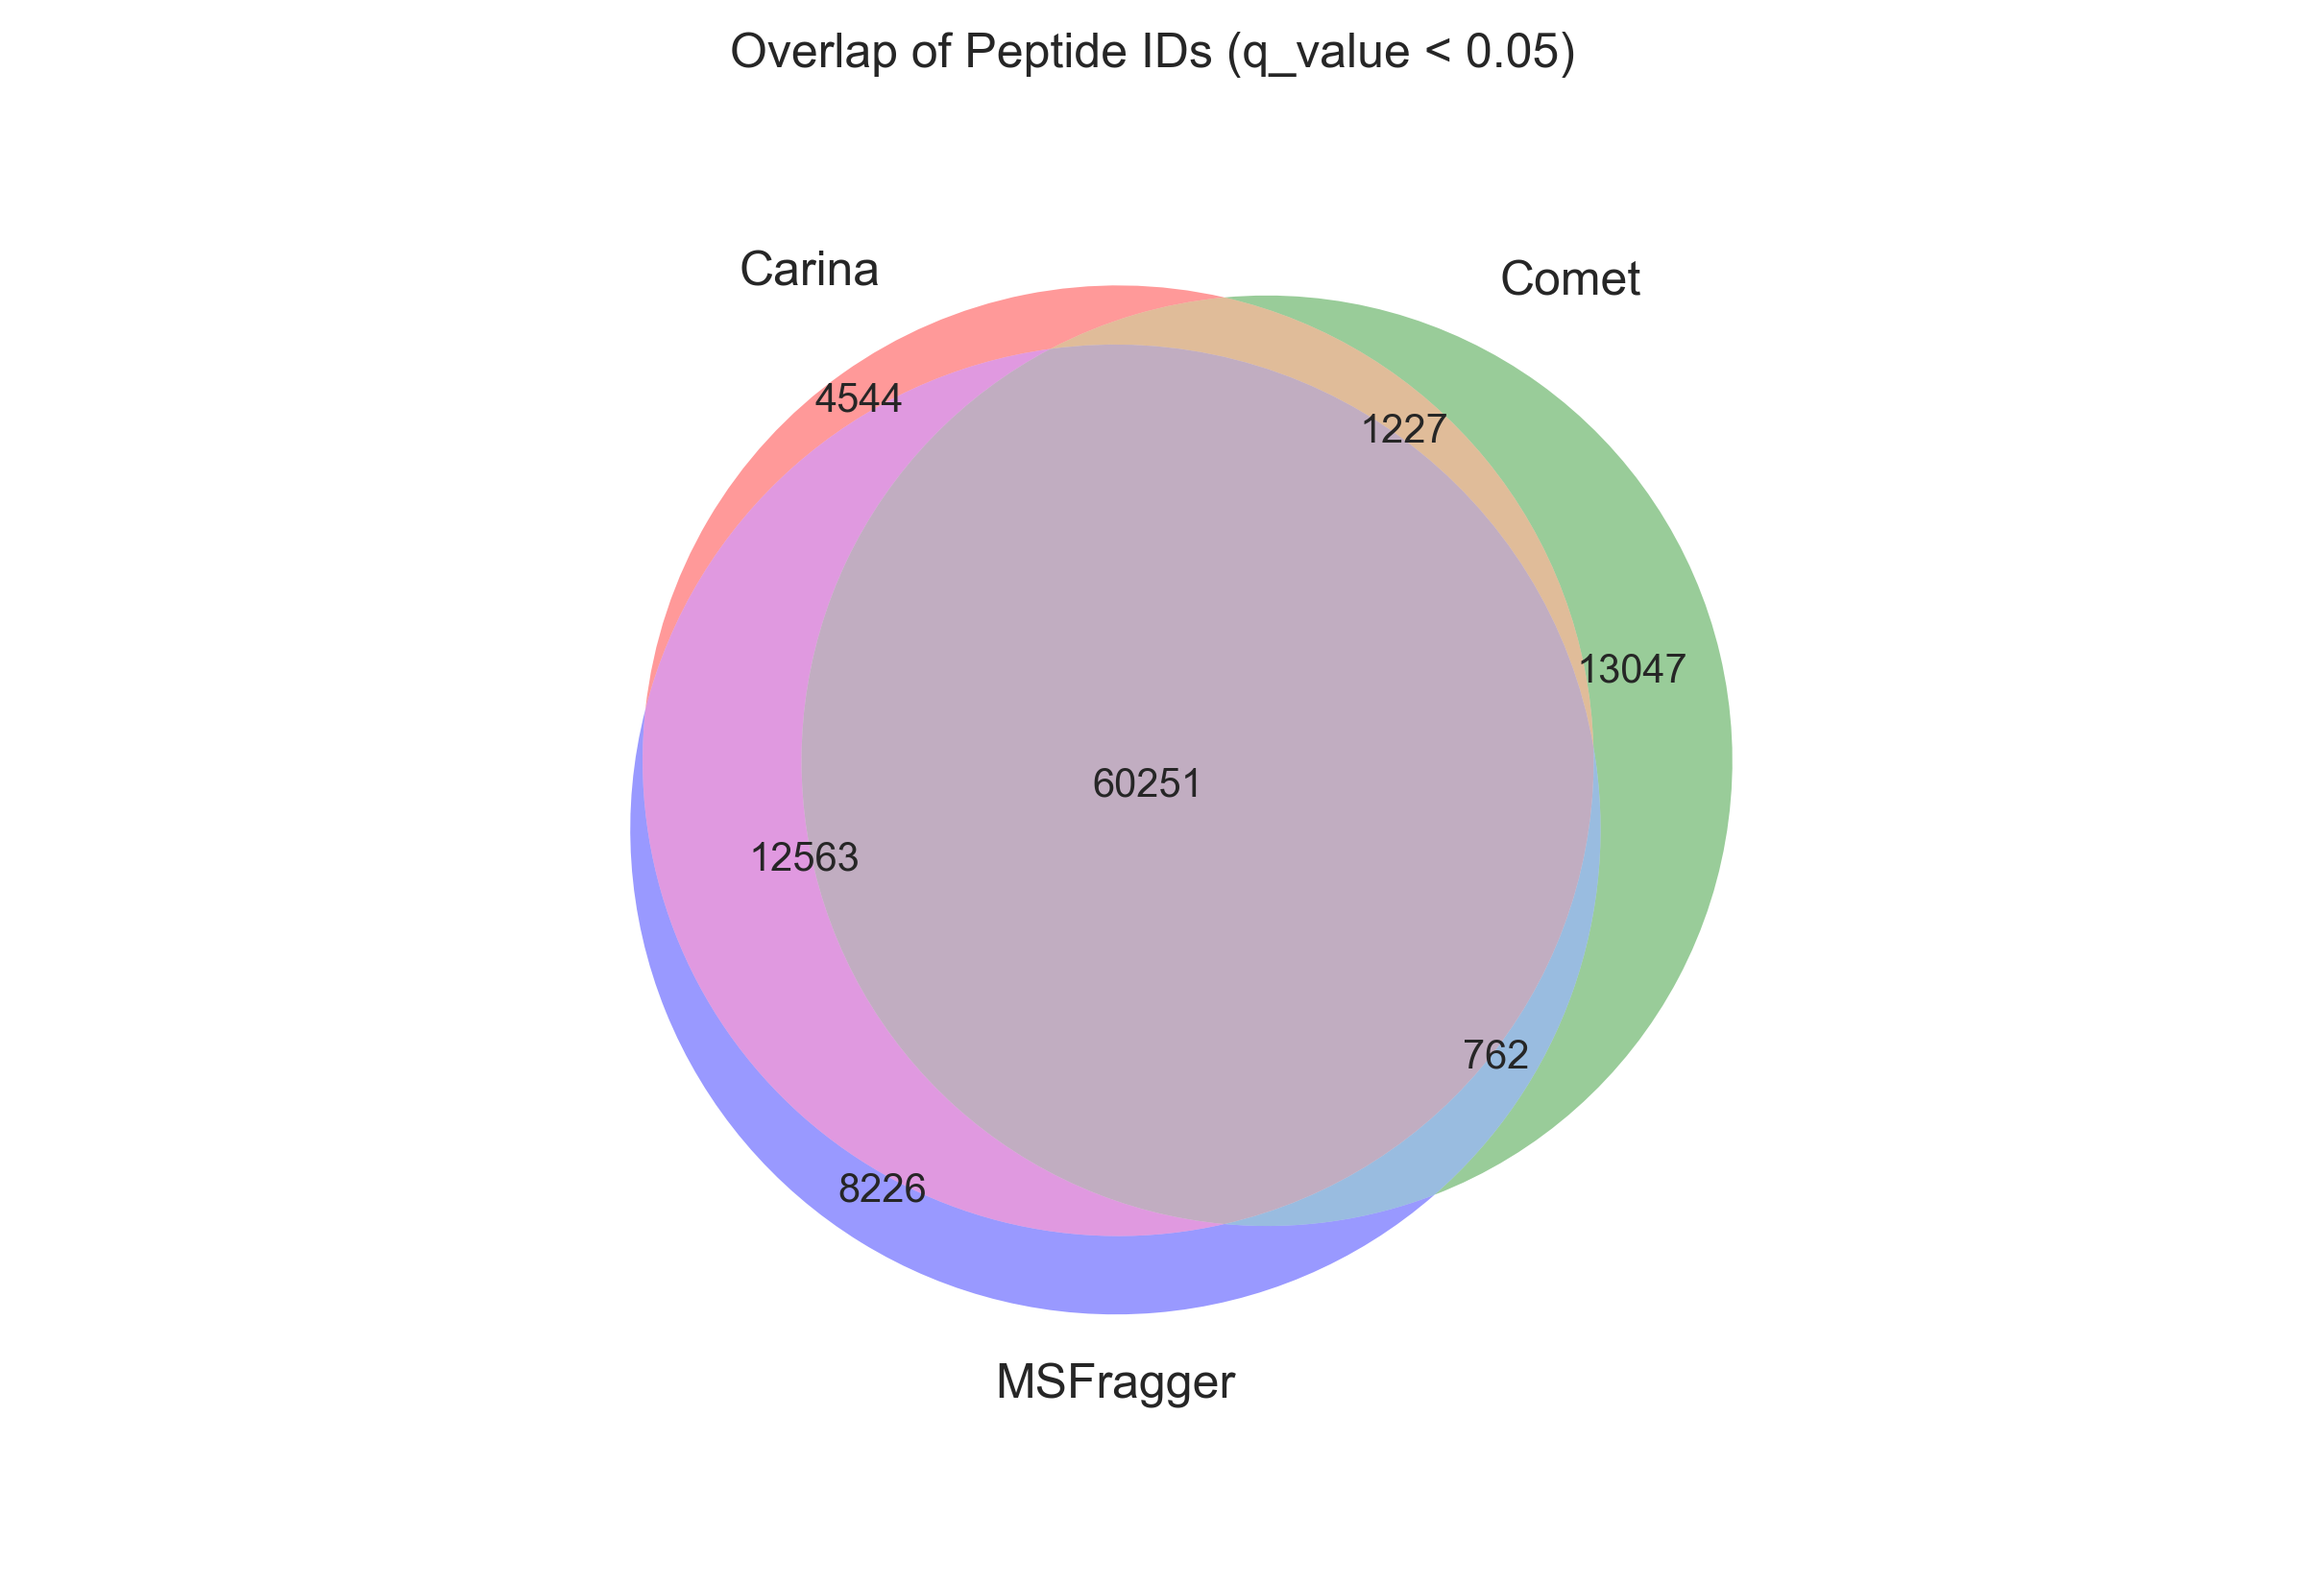
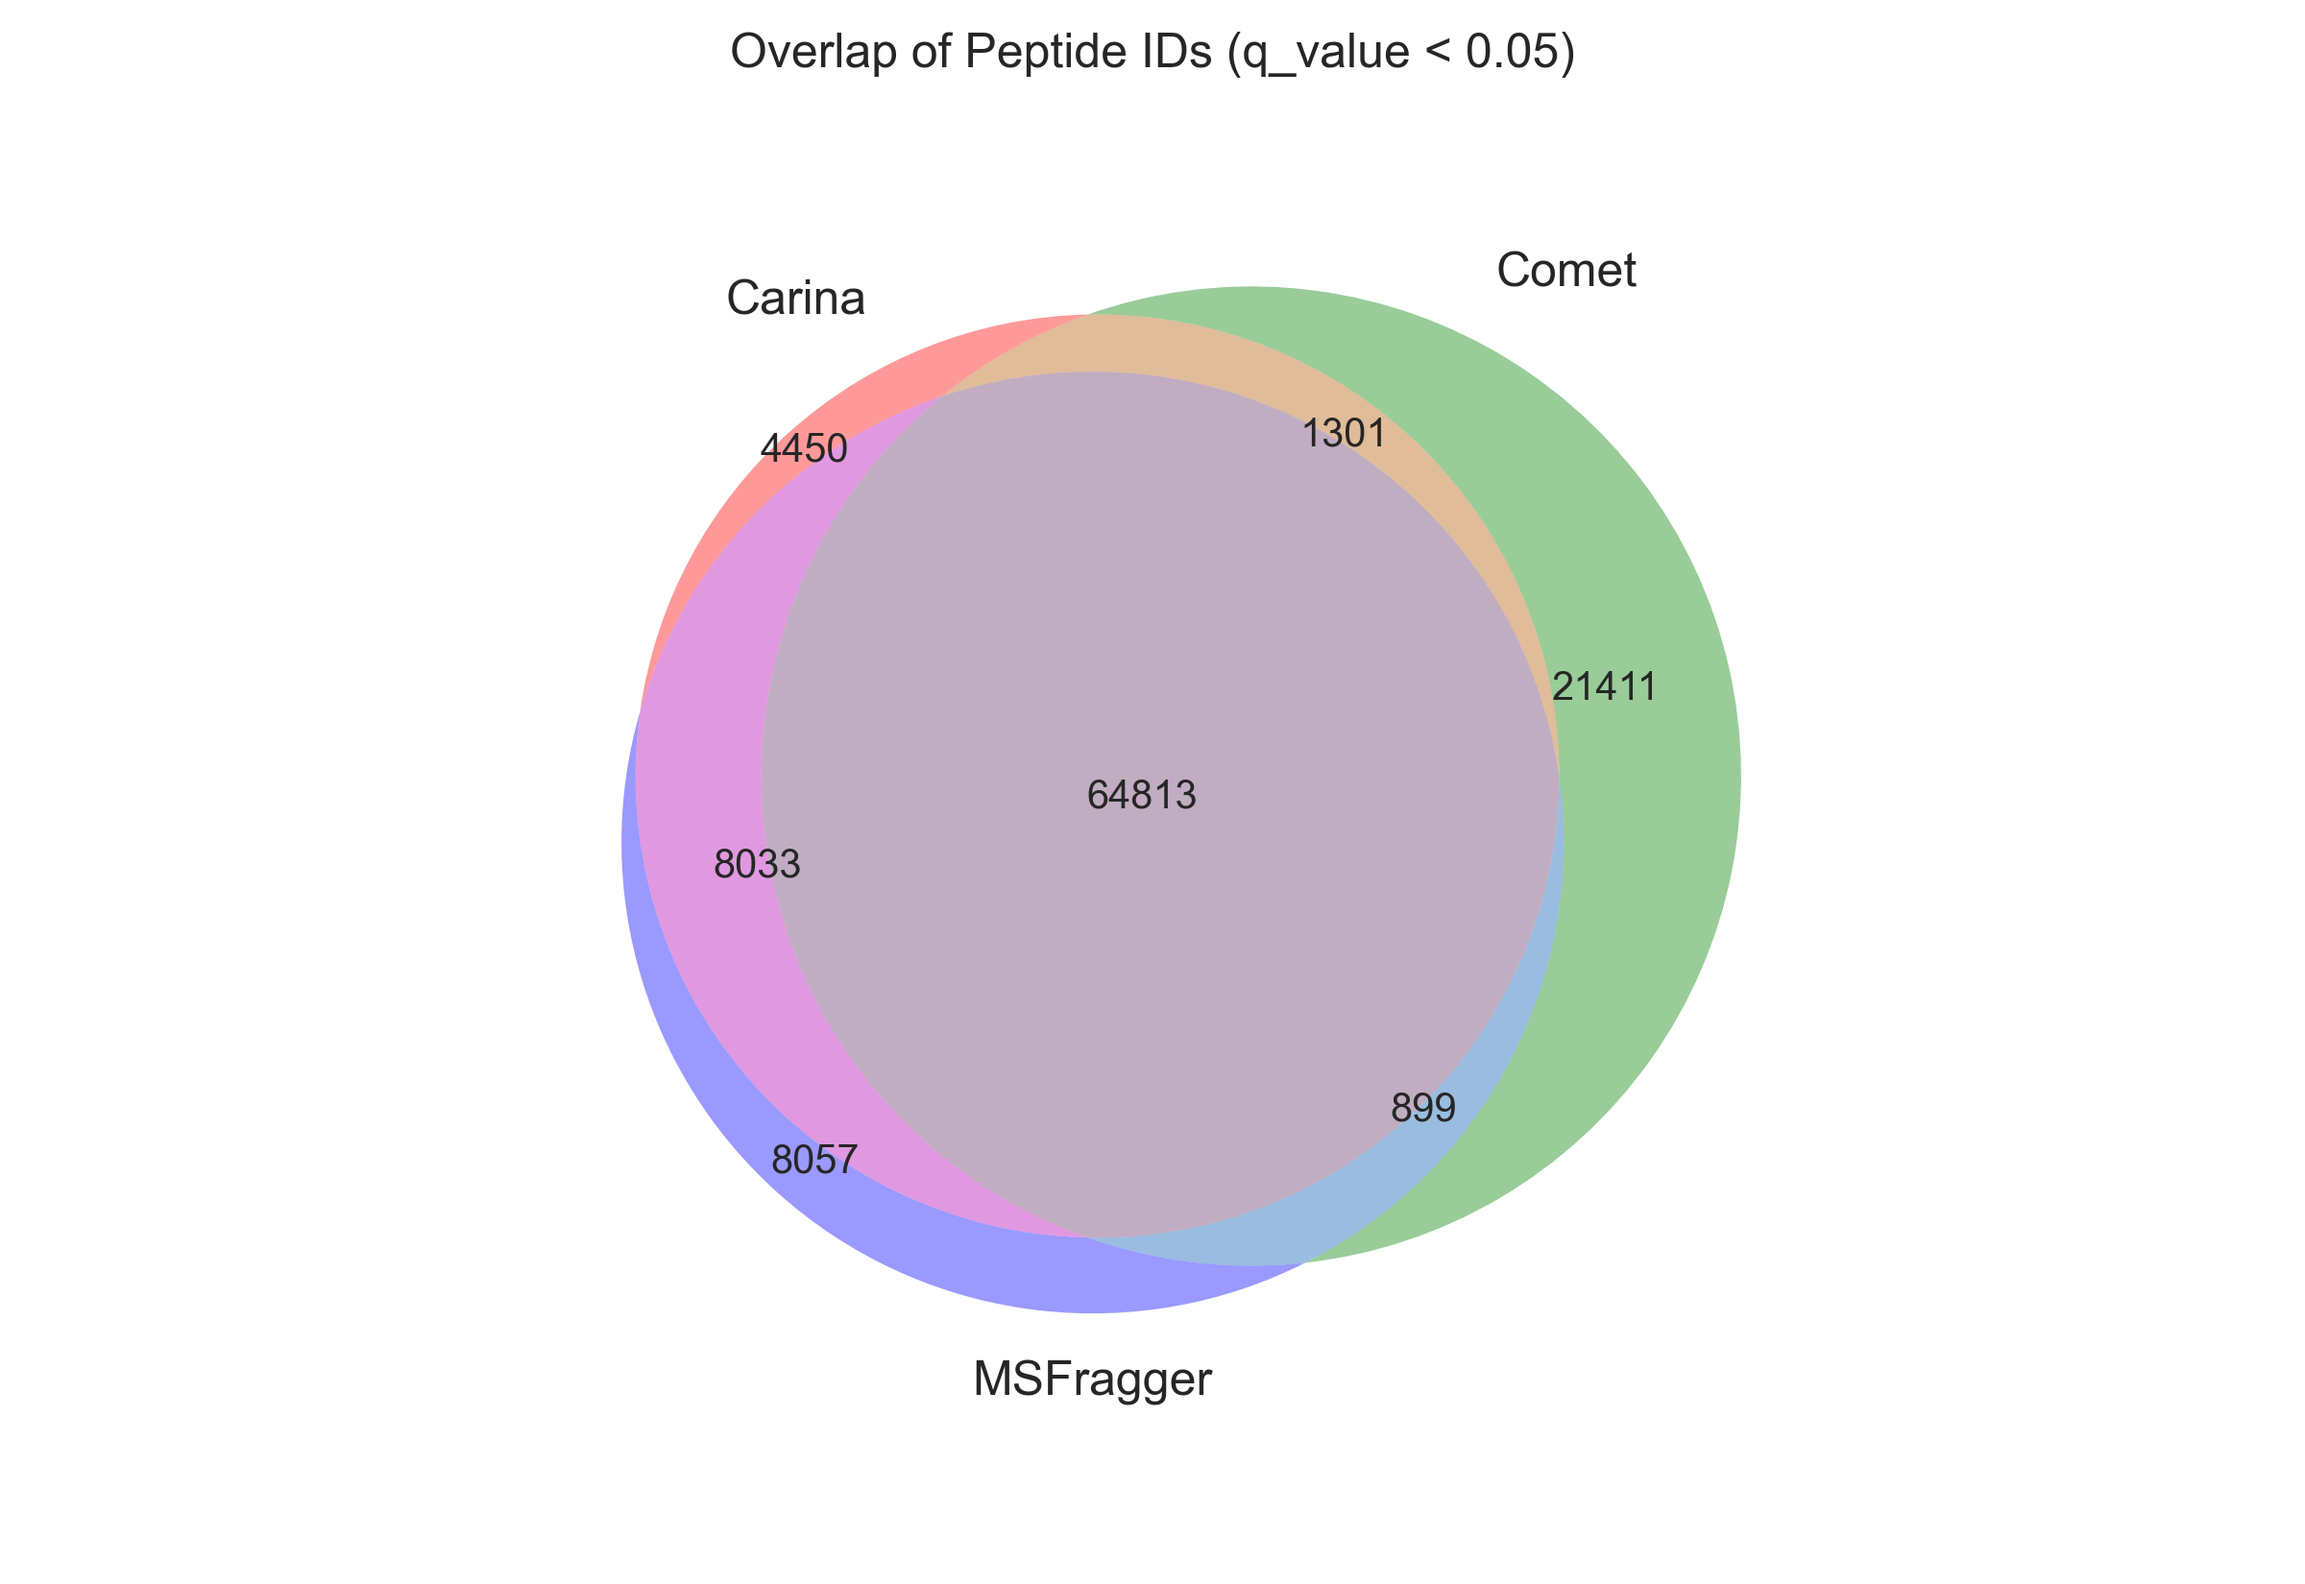
Refactor charge state searching
- Add SpectrumProcessor struct
- Re-do benchmarks

diff --git a/src/bin/carina.rs b/src/bin/carina.rs
@@ -2,7 +2,7 @@ use carina::database::{IndexedDatabase, PeptideIx, Theoretical};
 use carina::ion_series::Kind;
 use carina::mass::{Tolerance, PROTON};
 use carina::peptide::TargetDecoy;
-use carina::spectrum::{read_spectrum, ProcessedSpectrum};
+use carina::spectrum::{read_spectrum, ProcessedSpectrum, SpectrumProcessor};
 use clap::{Arg, Command};
 use log::info;
 use rayon::prelude::*;
@@ -96,26 +96,26 @@ impl<'db> Scorer<'db> {
             .query(query, self.search.precursor_tol, self.search.fragment_tol);
 
         for (idx, fragment_mz) in query.mz.iter().enumerate() {
-            for charge in 1..=query.charge.min(self.search.max_fragment_charge) {
-                let fragment_mz = (fragment_mz * charge as f32) - (charge as f32 * PROTON);
-                for frag in candidates.page_search(fragment_mz) {
-                    let mut sc = scores
-                        .entry(frag.peptide_index)
-                        .or_insert_with(|| Score::new(frag));
+            // for charge in 1..=query.charge.min(self.search.max_fragment_charge) {
+            // let fragment_mz = (fragment_mz * charge as f32) - (charge as f32 * PROTON);
+            for frag in candidates.page_search(*fragment_mz) {
+                let mut sc = scores
+                    .entry(frag.peptide_index)
+                    .or_insert_with(|| Score::new(frag));
 
-                    let intensity = query.int[idx];
-                    match frag.kind {
-                        Kind::B => {
-                            sc.matched_b += 1;
-                            sc.summed_b += intensity
-                        }
-                        Kind::Y => {
-                            sc.matched_y += 1;
-                            sc.summed_y += intensity
-                        }
+                let intensity = query.int[idx];
+                match frag.kind {
+                    Kind::B => {
+                        sc.matched_b += 1;
+                        sc.summed_b += intensity
+                    }
+                    Kind::Y => {
+                        sc.matched_y += 1;
+                        sc.summed_y += intensity
                     }
                 }
             }
+            // }
         }
 
         let mut scores = scores
@@ -193,6 +193,7 @@ pub struct Search {
     precursor_tol: Tolerance,
     fragment_tol: Tolerance,
     max_fragment_charge: u8,
+    take_top_n: usize,
     report_psms: usize,
     ms2_paths: Vec<String>,
     pin_paths: Vec<String>,
@@ -204,7 +205,8 @@ struct Input {
     database: carina::database::Builder,
     precursor_tol: Tolerance,
     fragment_tol: Tolerance,
-    report_psms: usize,
+    report_psms: Option<usize>,
+    take_top_n: Option<usize>,
     max_fragment_charge: Option<u8>,
     ms2_paths: Vec<String>,
 }
@@ -218,7 +220,8 @@ impl Search {
             database,
             precursor_tol: request.precursor_tol,
             fragment_tol: request.fragment_tol,
-            report_psms: request.report_psms,
+            report_psms: request.report_psms.unwrap_or(1),
+            take_top_n: request.take_top_n.unwrap_or(100),
             max_fragment_charge: request.max_fragment_charge.unwrap_or(3),
             pin_paths: Vec::new(),
             ms2_paths: request.ms2_paths,
@@ -251,12 +254,17 @@ fn main() -> Result<(), Box<dyn std::error::Error>> {
     );
 
     let scorer = Scorer::new(&db, &search);
+    let sp = SpectrumProcessor::new(
+        search.take_top_n,
+        search.max_fragment_charge,
+        search.database.fragment_max_mz,
+    );
 
     let mut pin_paths = Vec::with_capacity(search.ms2_paths.len());
     for ms2_path in &search.ms2_paths {
         let spectra = read_spectrum(ms2_path)?
             .into_iter()
-            .map(ProcessedSpectrum::from)
+            .map(|spectra| sp.process(spectra))
             .collect::<Vec<_>>();
 
         let start = Instant::now();

diff --git a/src/spectrum.rs b/src/spectrum.rs
@@ -1,5 +1,13 @@
 use std::collections::BTreeMap;
 
+use crate::mass::PROTON;
+
+pub struct SpectrumProcessor {
+    take_top_n: usize,
+    max_fragment_charge: u8,
+    max_fragment_mz: f32,
+}
+
 #[derive(Clone, Default, Debug)]
 pub struct ProcessedSpectrum {
     pub scan: u32,
@@ -10,15 +18,30 @@ pub struct ProcessedSpectrum {
     pub int: Vec<f32>,
 }
 
-impl From<Spectrum> for ProcessedSpectrum {
-    fn from(s: Spectrum) -> Self {
-        let (mz, int): (Vec<f32>, Vec<f32>) = s
-            .peaks
-            .iter()
-            .rev()
-            .take(100)
-            .map(|(Intensity(int), mz)| (mz, int.sqrt()))
-            .unzip();
+impl SpectrumProcessor {
+    pub fn new(take_top_n: usize, max_fragment_charge: u8, max_fragment_mz: f32) -> Self {
+        Self {
+            take_top_n,
+            max_fragment_charge,
+            max_fragment_mz,
+        }
+    }
+
+    pub fn process(&self, s: Spectrum) -> ProcessedSpectrum {
+        let charge = self.max_fragment_charge.min(s.charge);
+        let mut mz = Vec::with_capacity(charge as usize * self.take_top_n);
+        let mut int = Vec::with_capacity(charge as usize * self.take_top_n);
+        for (Intensity(fragment_int), fragment_mz) in s.peaks.iter().rev().take(self.take_top_n) {
+            for charge in 1..=charge {
+                let fragment_mz = (fragment_mz * charge as f32) - (charge as f32 * PROTON);
+                if fragment_mz < self.max_fragment_mz {
+                    mz.push(fragment_mz);
+                    int.push(fragment_int.sqrt());
+                }
+            }
+        }
+
+        // dbg!(mz.len());
 
         ProcessedSpectrum {
             scan: s.scan,

diff --git a/src/database.rs b/src/database.rs
@@ -73,8 +73,8 @@ impl Builder {
 #[derive(Serialize, Clone, Debug)]
 pub struct Parameters {
     bucket_size: usize,
-    fragment_min_mz: f32,
-    fragment_max_mz: f32,
+    pub fragment_min_mz: f32,
+    pub fragment_max_mz: f32,
     peptide_min_len: usize,
     peptide_max_len: usize,
     decoy: bool,

diff --git a/README.md b/README.md
@@ -1,83 +1,105 @@
-# Proteomics Database in a Weekend!
+# Proteomics Search Engine in a Weekend!
 <p align="center">
 <img src="https://upload.wikimedia.org/wikipedia/commons/7/70/Carina_Nebula_by_Harel_Boren_%28151851961%2C_modified%29.jpg" width="450px" />
 </p>
 
-I wanted to see how far I could take a proteomics search engine in ~1000 lines of code, and spending only one weekend on it. 
+I wanted to see how far I could take a proteomics search engine in ~1000 lines of code, and spending a little more than a weekend on it. 
 
-I was inspired by the elegant data structure discussed in the [MSFragger paper](https://www.ncbi.nlm.nih.gov/pmc/articles/PMC5409104/), and decided to implement a version of it in Rust
+I was inspired by the elegant data structure discussed in the [MSFragger paper](https://www.ncbi.nlm.nih.gov/pmc/articles/PMC5409104/), and decided to implement a version of it in Rust - with great results.
+
+Carina has excellent performance characteristics (>2x faster and >2x less memory usage than MSFragger), but does not sacrifice code quality or size to do so!
  
-### Features
+## Features
 
 - Search by fragment, filter by precursor: memory layout using sorted tables for blazing fast performance (lots of binary searching!)
+- Effortlessly cross-platform
+- Configuration by JSON files
 - Internal support for static/variable mods
 - X!Tandem hyperscore function
-- Interal q-value/FDR calculation using a target-decoy competition approach
-- No unsafe
-- Percolar output
+- Internal q-value/FDR calculation using a target-decoy competition approach
+- Unsafe free
+- Percolator/mokapot compatible output
+- 
 
-### Limitations
+## Limitations
 
 - Only uses MS2 files
 - Only percolator PIN output
-- Lots of hardcoded parameters (however, you can supply static mods/missed cleavages, etc)
 - Only outputs 1 protein ID even if the peptide is shared by multiple proteins :)
 - Probably has some calculation errors :)
 
-## Performance
+# Usage 
 
-### **High res Human TMT search**
+Carina takes a single command line argument: a path to a JSON-encoded parameter file (see below). A new file (`results.json`) will be created that details input/output paths and all search parameters used for the search
 
-Paper: [Benchmarking the Orbitrap Tribrid Eclipse for Next Generation
-Multiplexed Proteomics](https://pubs.acs.org/doi/10.1021/acs.analchem.9b05685?goto=supporting-info)
+Example usage: `carina tmt.json`
 
-Data: [PXD016766](http://proteomecentral.proteomexchange.org/cgi/GetDataset?ID=PXD016766)
+# Performance
 
-Search settings: 50ppm precursor, 10ppm fragment
+To benchmark search performance versus MSFragger (closed source) and Comet (open source), I downloaded data from the paper [Benchmarking the Orbitrap Tribrid Eclipse for Next Generation
+Multiplexed Proteomics](https://pubs.acs.org/doi/10.1021/acs.analchem.9b05685?goto=supporting-info).
 
-- 12 MS2 files extracted using MSConvert (HRMS2 files)
-- Latest Human proteome FASTA database
-- Internal decoy generation
-- Fragment bucket size: 8196
-- N-term TMT modification
-- Static mod, TMT on Lys 
-- Static mod, IA on Cys
+Data repository: [PXD016766](http://proteomecentral.proteomexchange.org/cgi/GetDataset?ID=PXD016766)
 
-
-***Carina* has good PSM identity overlap**
+***Carina* has good peptide identity overlap**
 
 <img src="figures/TMT_IDs.png" width="600">
 
-**And excellent performance** (it could do a bit better at PSM ID though)
-
-- Active scanning: ~36,500 scans/s
-- Amortized scanning: ~5250 scans/s (most time used on fragment indexing, IO)
+**And excellent performance relative to other search engines**
 
 <img src="figures/TMT_Panel.png" width="800">
 
+Performance results: (Intel i7-12700KF + 32GB ram)
 
----
-
-### **Low res Yeast search**
-
-Raw data extracted using RawConverter to MS2 format
-Test data from [PXD001928](http://proteomecentral.proteomexchange.org/cgi/GetDataset?ID=PXD001928) (Yeast_XP_Tricine_trypsin_147.ms2)
-
-On my 6-year old 4-core desktop:
+- Active scanning: ~20,000 scans/s (can be tuned to use more ram and go up to 5x faster!)
+- Amortized scanning: ~7,000 scans/s (most time used on fragment indexing, IO)
 
 
-In silico digestion and generation of sorted fragment tables: ~12 s
+### Search methods
 
-Wide search with 300ppm fragment window and 5 Th precursor window:
-- ~2300 scans/sec
-- Total run time: 27.5s for a single raw file, < 2 Gb of peak memory usage
-- Percolator/Mokapot results: 13,784 PSMs with q <= 0.05
+- MS2 files generated using the [ProteoWizard MSConvert tool](http://www.proteowizard.org/download.html)
+- MSFragger and Comet were configured with analogous parameters (50ppm precursor tolerance, 10ppm fragment tolerance - or for Comet setting `fragment_bin_tol` to 0.02 Da).
+- [Mokapot](https://github.com/wfondrie/mokapot) was then used to refine FDR for all search results
 
-Narrow search - 10ppm fragment window and 1 Th precursor window:
-- ~19,000 scans/sec
-- Total run time: 17.2s for a single raw file, < 2 Gb of peak memory usage
-- Percolator/Mokapot results: 452 PSMs with q <= 0.05
+Carina search settings file:
+```json
+{
+  "database": {
+    "bucket_size": 8192,
+    "fragment_min_mz": 75.0,
+    "fragment_max_mz": 4000.0,
+    "peptide_min_len": 5,
+    "peptide_max_len": 50,
+    "decoy": true,
+    "missed_cleavages": 1,
+    "n_term_mod": 229.1629,
+    "static_mods": {
+      "K": 229.1629,
+      "C": 57.0215
+    },
+    "fasta": "UP000005640_9606.fasta"
+  },
+  "precursor_tol": {
+    "ppm": 50.0
+  },
+  "fragment_tol": {
+    "ppm": 10.0 
+  },
+  "report_psms": 1,
+  "ms2_paths": [
+    "./tmt_analysis/raw/dq_00082_11cell_90min_hrMS2_A1.ms2",
+    "./tmt_analysis/raw/dq_00083_11cell_90min_hrMS2_A3.ms2",
+    "./tmt_analysis/raw/dq_00084_11cell_90min_hrMS2_A5.ms2",
+    "./tmt_analysis/raw/dq_00085_11cell_90min_hrMS2_A7.ms2",
+    "./tmt_analysis/raw/dq_00086_11cell_90min_hrMS2_A9.ms2",
+    "./tmt_analysis/raw/dq_00087_11cell_90min_hrMS2_A11.ms2",
+    "./tmt_analysis/raw/dq_00088_11cell_90min_hrMS2_B1.ms2",
+    "./tmt_analysis/raw/dq_00089_11cell_90min_hrMS2_B3.ms2",
+    "./tmt_analysis/raw/dq_00090_11cell_90min_hrMS2_B5.ms2",
+    "./tmt_analysis/raw/dq_00091_11cell_90min_hrMS2_B7.ms2",
+    "./tmt_analysis/raw/dq_00092_11cell_90min_hrMS2_B9.ms2",
+    "./tmt_analysis/raw/dq_00093_11cell_90min_hrMS2_B11.ms2"
+  ]
+}
+```
 
-<img src="figures/Yeast_IDs.png" width="600">
-
-<img src="figures/Yeast_Panel.png" width="800">
